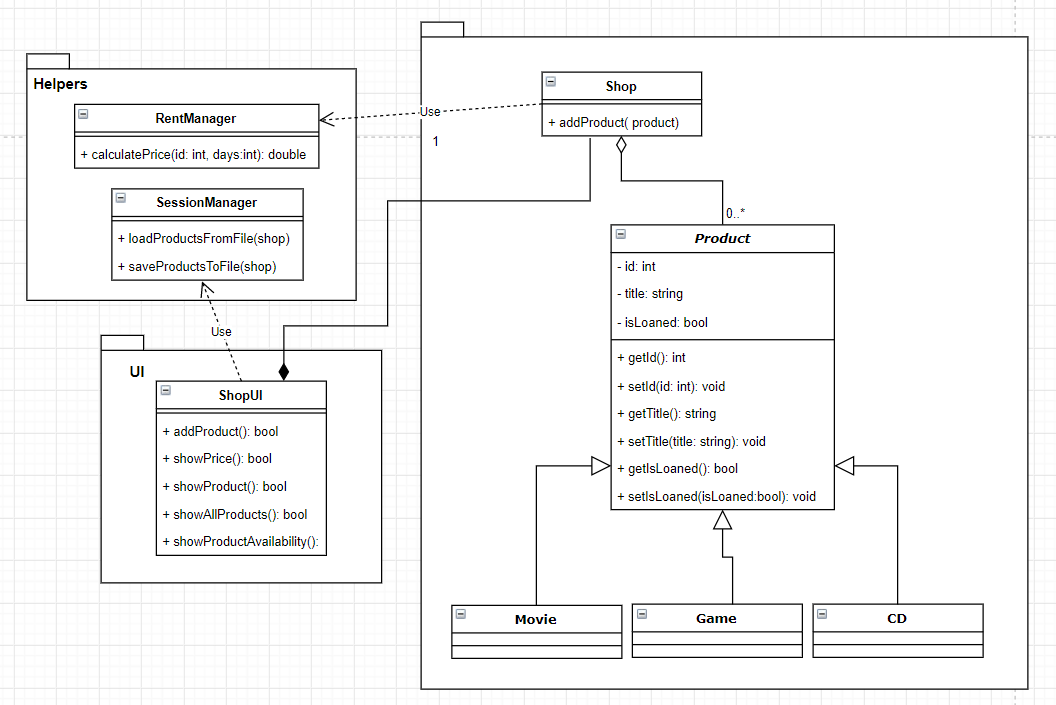
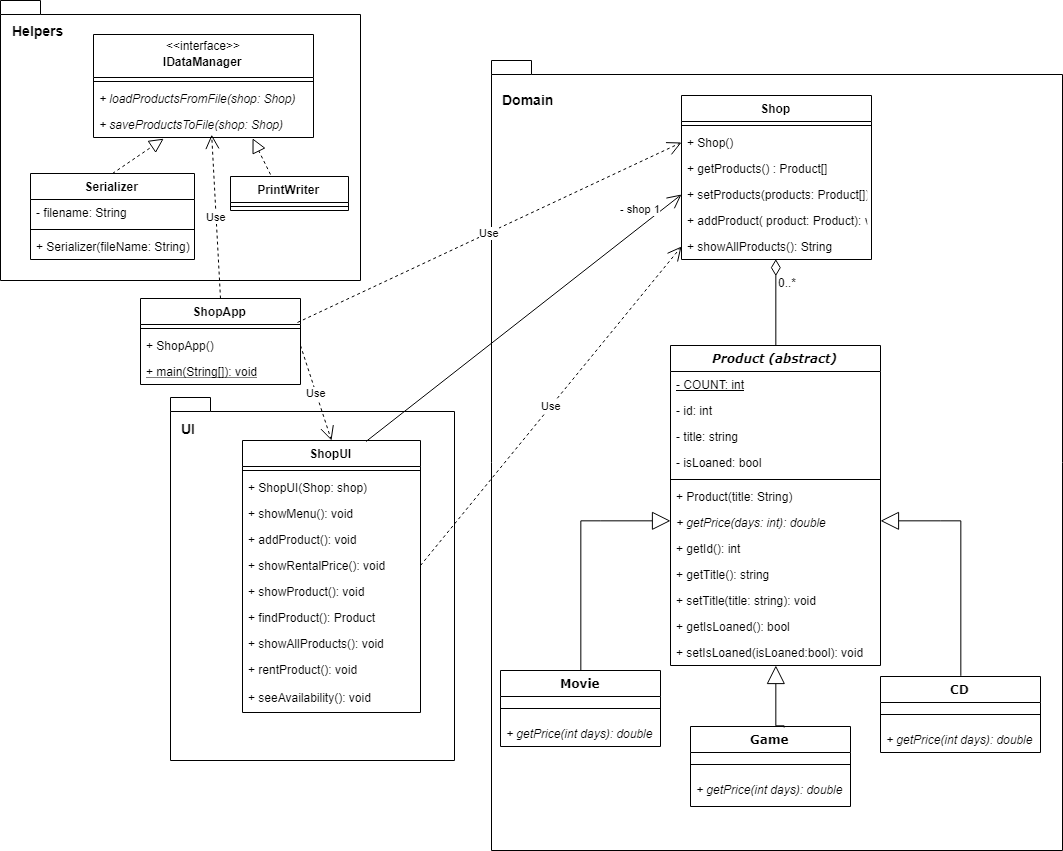
removed unused methods and updated class diagram

diff --git a/src/domain/Shop.java b/src/domain/Shop.java
@@ -13,24 +13,6 @@ public class Shop {
         this.products = products;
     }
 
-    public boolean isLoaned(int id){
-        boolean loaned = false;
-        for (Product p: this.products){
-            if (p.getId() == id){
-                loaned =  p.getIsLoaned();
-            }
-        }
-        return loaned;
-    }
-
-    public void setLoaned(int id){
-        for (Product p: this.products){
-            if (p.getId() == id){
-                p.setIsLoaned(true);
-            }
-        }
-    }
-
     public String showAllProducts(){
         String uit = "";
         for (Product p: this.products){

diff --git a/src/ui/ShopUI.java b/src/ui/ShopUI.java
@@ -18,7 +18,8 @@ public class ShopUI {
     }
 
     public void showMenu(){
-        String menu = "1. Add product\n2. Show product\n3. Show rental price\n4. Show all products\n5. Rent product\n6.See availability\n\n0. Program closes";
+        String menu = "1. Add product\n2. Show product\n3. Show rental price\n" +
+                "4. Show all products\n5. Rent product\n6.See availability\n\n0. Program closes";
         String input;
         int choice;
         do{

diff --git a/src/ShopApp.java b/src/ShopApp.java
@@ -12,6 +12,5 @@ public class ShopApp {
         shopUI.showMenu();
 
         dataManager.saveProductsToFile(shop);
-
     }
 }
